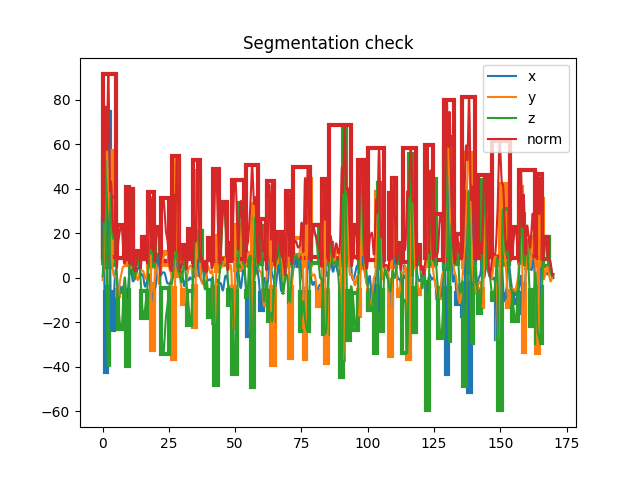
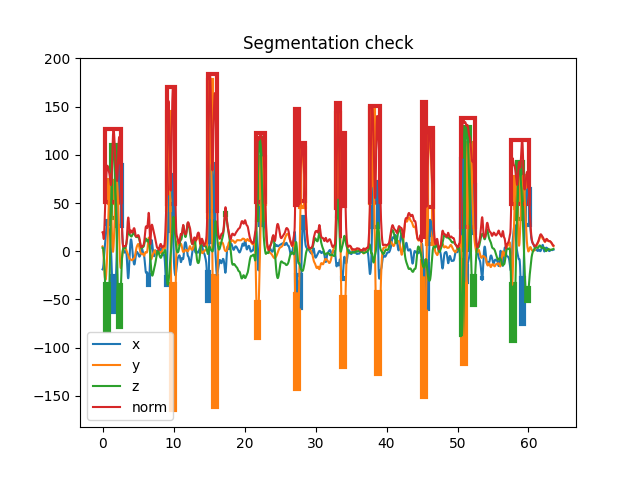
update merge function (nms), print results (work fine for seq 13)

diff --git a/main.py b/main.py
@@ -5,27 +5,18 @@ import mathsUtils as MATH
 if __name__ == "__main__":
 
         #seq_to_read = "data/our_datas/non_gesture/Non-gesture_8_Lea.csv"
-        seq_to_read = "data/our_datas/new/processed/seq1.csv"
-        seq_to_labelise = "data/our_datas/new/raw/seq1.csv"
+        seq_to_read = "data/our_datas/new/processed/seq13.csv"
+        seq_to_labelise = "data/our_datas/new/raw/seq13.csv"
 
         normalised_timestamp_acc, x_accel, y_accel, z_accel, x_gyros, y_gyros, z_gyros, fs = CSV.reading_into_csv(
                 seq_to_read)
 
 
         # PARAMETERS FOR THE REST OF THE CODE
-        #maud_1 = trop brusque sur non mouvements
-        #seq9 : sigma = 40, threshold = 0.1
-        #seq8 : sigma = 1, threshold = 0.3 not working
-        #seq7 : sigma = 30, threshold = 0.1
-        #seq6 : sigma = 30, threshold = 0.1
-        #seq5 : sigma = 30, threshold = 0.1
-        #seq4 : sigma = 10, threshold = 0.1   not very effective
-        #seq3 : sigma = 30, threshold = 0.1
-        #seq2 : sigma = 30, threshold = 0.1
-        #seq1 : sigma = 10, threshold = 0.1
-        threshold_multiplier = 0.1 # if low (<0.2), detection is very harsh, else, detection is more smooth (overlapping gestures)
+        # for new seq 13, threshold = 13 and sigma = 10. For IOU, threshold = 2
+        threshold_multiplier = 0.3 # if low (<0.2), detection is very harsh, else, detection is more smooth (overlapping gestures)
 
-        sigma = 40
+        sigma = 10
 
 
         # SEGMENTATION
@@ -38,7 +29,14 @@ if __name__ == "__main__":
         true_start = true_mvmt[0]
         true_end = true_mvmt[1]
 
+        print("avant merge : ")
         for i in range(0, min(len(true_start), len(start_norm))):
             iou = MATH.IOU(true_start[i], true_end[i], start_norm[i], end_norm[i])
+            print(iou)
+
+        print("apres merge : ")
+        new_start, new_end = MATH.non_max_suppression(start_norm, end_norm, 2)
+        for i in range(0, min(len(true_start), len(new_start))):
+            iou = MATH.IOU(true_start[i], true_end[i], new_start[i], new_end[i])
             print(iou)
         

diff --git a/mathsUtils.py b/mathsUtils.py
@@ -76,32 +76,20 @@ def find_bounds(x, signal, threshold):
 def non_max_suppression(seg_start_list, seg_end_list, threshold):
     selected_indices_start = []
     selected_indices_end = []
-    n = len(seg_start_list)
     
-    i = 0
-    while i < n - 1:
-        end_i = seg_end_list[i]
-        j = i + 1
-        while j < n - 1:
-            if ((threshold > 0 and -end_i + seg_start_list[j] < threshold)
-                or (threshold <= 0 and end_i - seg_start_list[j] > threshold)):
-                j += 1
-            else:
-                break
-        selected_indices_start.append(seg_start_list[i])
-        selected_indices_end.append(seg_end_list[j])
-        i = j + 1
-    """
+    selected_indices_start.append(seg_start_list[0])
+    selected_indices_end.append(seg_end_list[0])
+    
     for i in range(1, len(seg_start_list)):
         diff_start = abs(seg_end_list[i - 1] - seg_start_list[i])
         if diff_start <= threshold:
-            selected_indices_start.append(min(seg_start_list[i - 1], seg_start_list[i]))
-            selected_indices_end.append(max(seg_end_list[i - 1], seg_end_list[i]))
+            selected_indices_end[-1] = max(seg_end_list[i], selected_indices_end[-1])
         else:
             selected_indices_start.append(seg_start_list[i])
             selected_indices_end.append(seg_end_list[i])
-     """       
+           
     return selected_indices_start, selected_indices_end
+
 
 def IOU(start_true, end_true, start_detected, end_detected):
     Xa = max(start_true, start_detected)
@@ -129,3 +117,6 @@ def true_false_positive_negative(iou:float, is_gesture:bool):
         true_negativ += 1
 
     return true_positiv, true_negativ, false_positiv, false_negativ
+
+def mean(data):
+    return sum(data)/len(data)

diff --git a/signalUtils.py b/signalUtils.py
@@ -63,7 +63,7 @@ def all_calculations(x_accel, y_accel, z_accel, timestamp, sigma, threshold_mult
                         [end_xaccel, end_yaccel, end_zaccel, markers_end],
                         true_mvmt, fs, "raw")
     
-    iou_threshold = 0
+    iou_threshold = 2
 
     new_start_norm, new_end_norm = MATH.non_max_suppression(markers_begin, markers_end, iou_threshold)
     new_start_x, new_end_x = MATH.non_max_suppression(start_xaccel, end_xaccel, iou_threshold)

diff --git a/readingUtils/csvUtils.py b/readingUtils/csvUtils.py
@@ -31,7 +31,6 @@ def reading_into_csv(path):
 
         diff_timestamps = (normalised_timestamp[-1] - normalised_timestamp[0]) / len(normalised_timestamp)
         fs = 1 / diff_timestamps
-        print(fs)
 
     return normalised_timestamp, x_accel, y_accel, z_accel, x_gyros, y_gyros, z_gyros, fs
 
